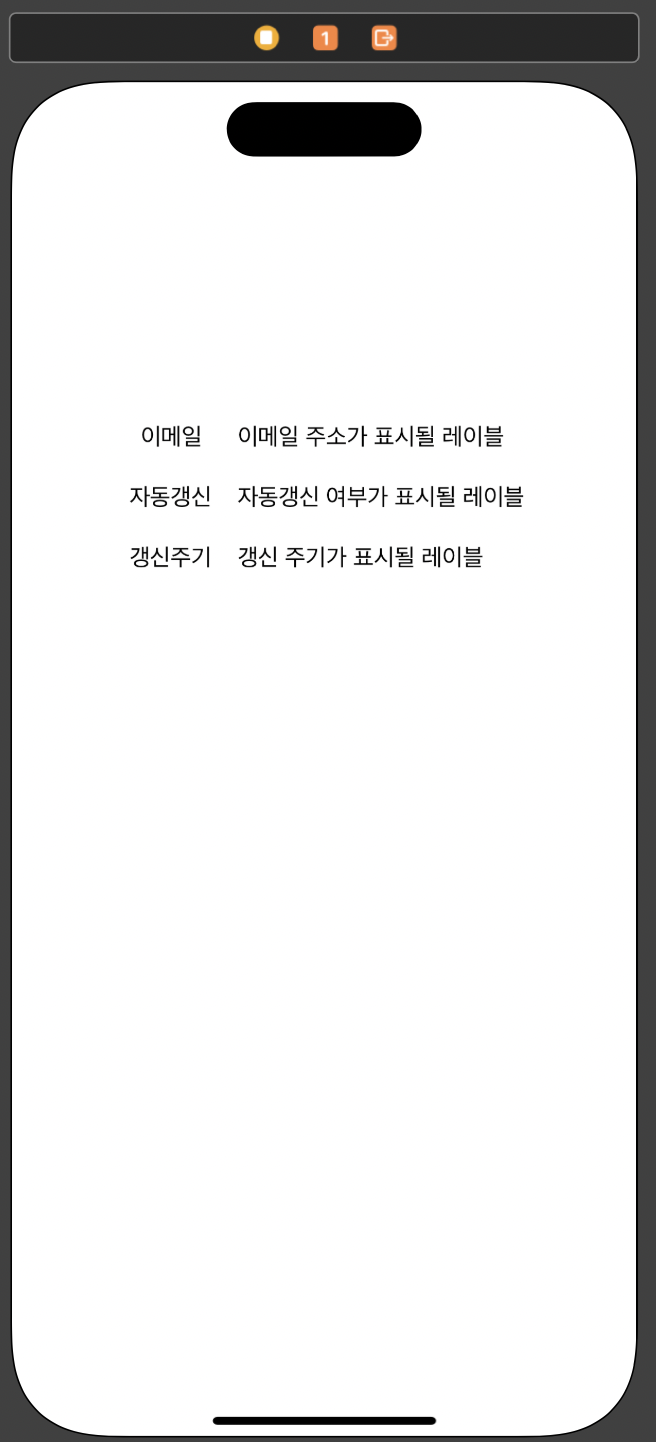
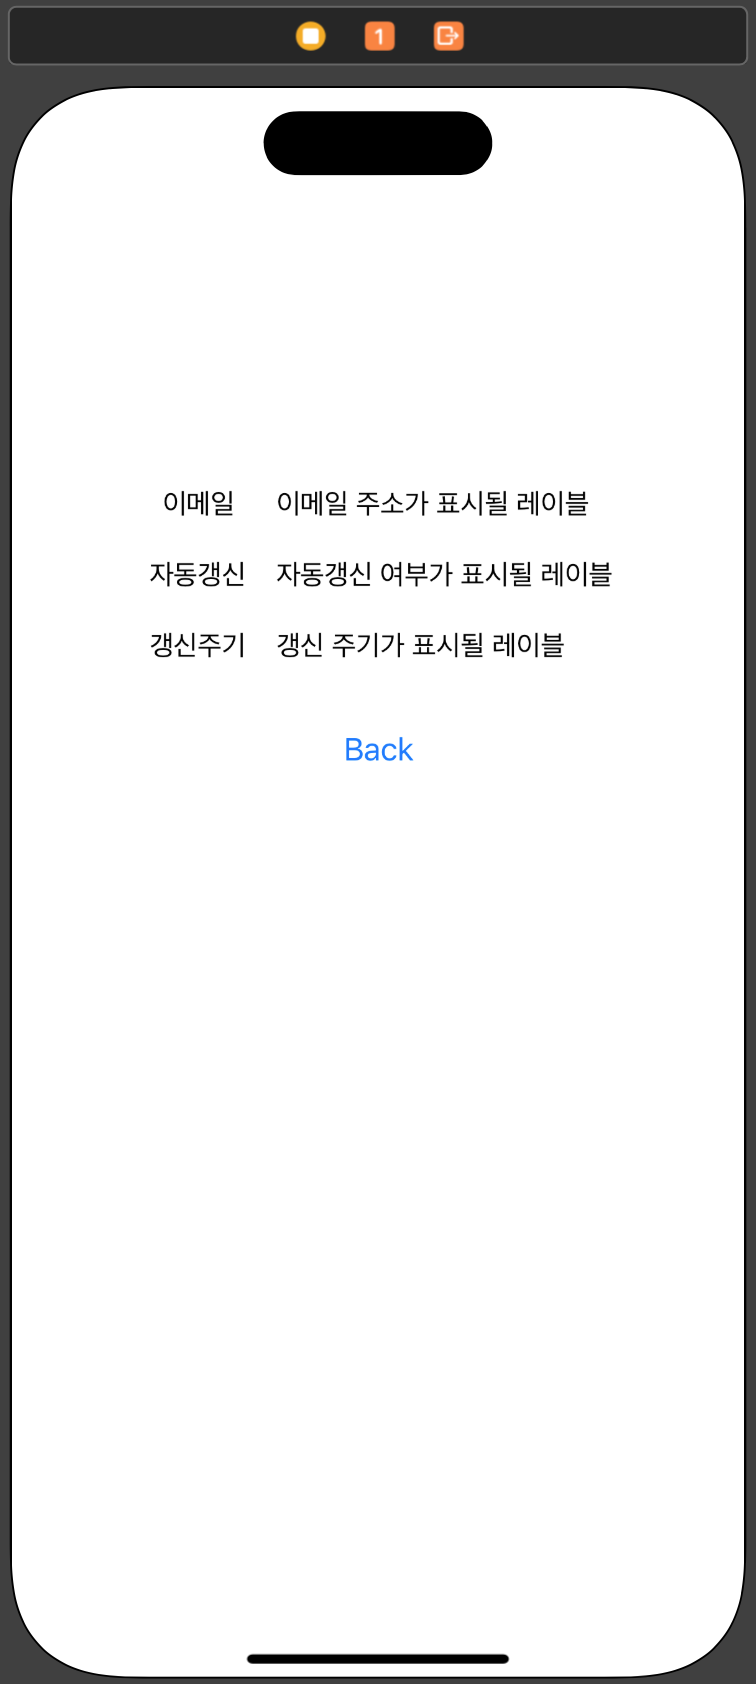
완료

diff --git a/SubmitValue_present/SubmitValue_present/ResultViewController.swift b/SubmitValue_present/SubmitValue_present/ResultViewController.swift
@@ -13,8 +13,16 @@ class ResultViewController: UIViewController {
     var paramIntervar : Double = 0
     
     override func viewDidLoad() {
+        // 전달 받은 값을 각 레이블에 출력
         self.resultEmail.text = paramEmail
         self.resultUpdate.text = (self.paramUpdate == true ? "자동갱신" : "자동갱신 안함")
         self.resultInterval.text = "\(Int(paramIntervar)) 분 마다"
     }
+    
+    // Back버튼 클릭시 발동
+    @IBAction func onBack(_ sender: Any) {
+        // 화면을 종료
+        self.presentingViewController?.dismiss(animated: true)
+    }
+    
 }

diff --git a/SubmitValue_present/SubmitValue_present/ViewController.swift b/SubmitValue_present/SubmitValue_present/ViewController.swift
@@ -5,6 +5,8 @@
 //  Created by EUNSUNG on 2023/02/16.
 //
 
+// finish
+
 import UIKit
 
 class ViewController: UIViewController {
@@ -38,9 +40,9 @@ class ViewController: UIViewController {
         self.intervalText.text = "\(value) 분 마다"
     }
     
-    
+    // Submit버튼 클릭시 호출
     @IBAction func onSubmit(_ sender: Any) {
-        // VC2 인스턴스 생성
+        // VC2 인스턴스 생성 / VC2의 storyboard ID : RVC
         guard let rvc = self.storyboard?.instantiateViewController(withIdentifier: "RVC") as? ResultViewController else {
             return
         }
